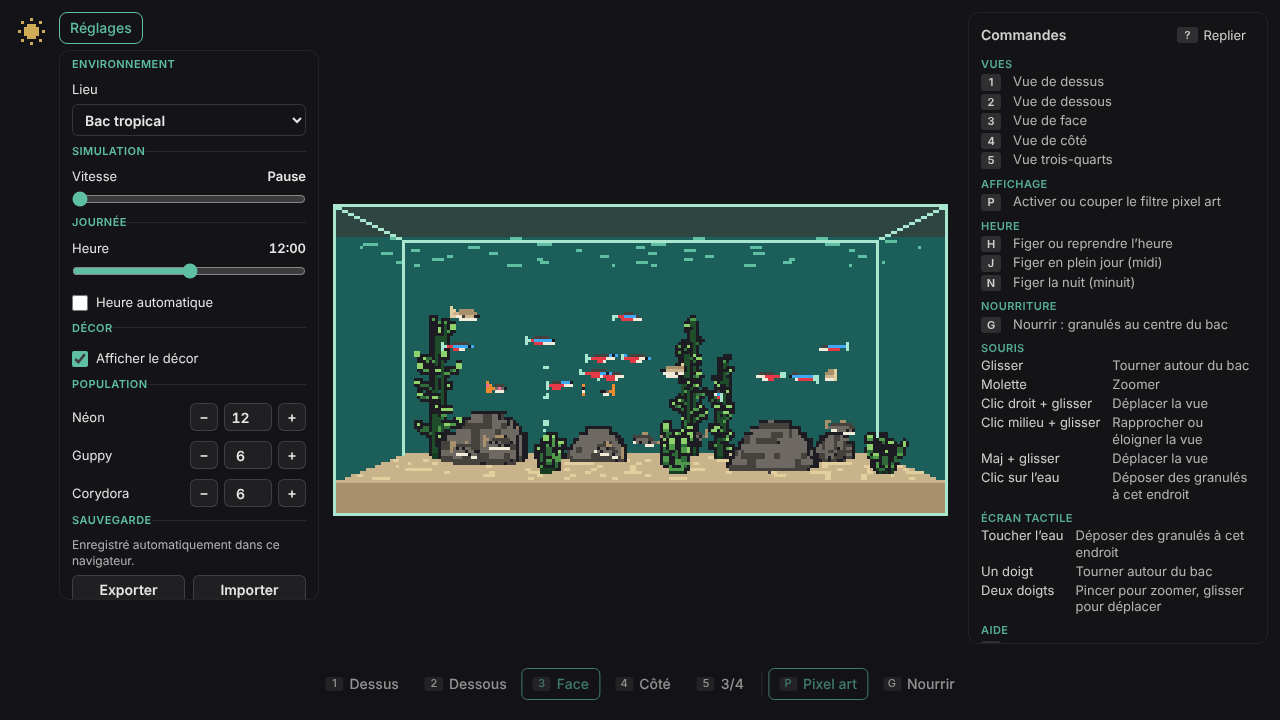
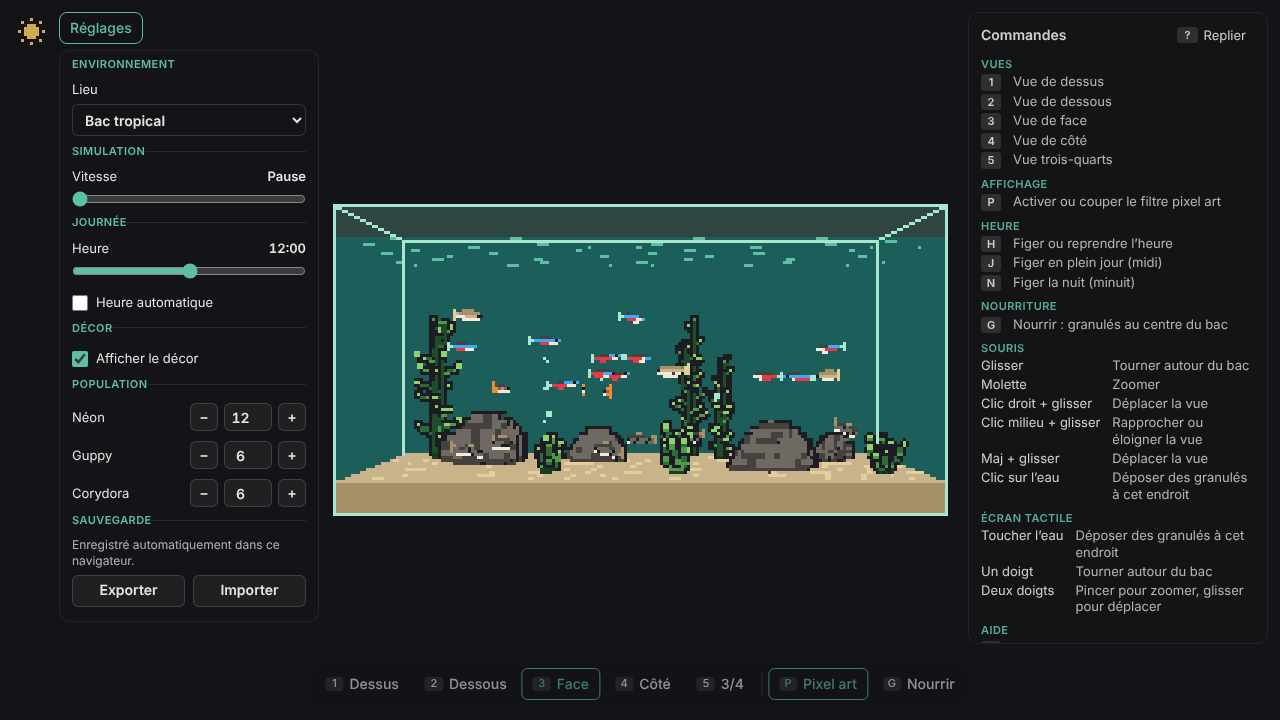
captures(c033): 5 angles

diff --git a/captures/latest/SOURCE.md b/captures/latest/SOURCE.md
@@ -1,5 +1,5 @@
-# Captures c032
-- Branche : cycle/c032-sauvegarde — PR #100 — commit 0cc10e9 (code applicatif ; 7b37a50 n'ajoute que des tests e2e)
+# Captures c033
+- Branche : cycle/c033-dette-sauvegarde — PR #102 — commit 293c9f0 (code applicatif ; 2fc8196 n'ajoute qu'un test e2e)
 - Graine : celle du script de captures (monde neuf, stockage non lu)
-- Généré par QA le 2026-10-20 (npm run captures, 19 passées en 46,7 s)
-- 18/19 identiques à latest (c031) ; seule front-panneau.png change (section Sauvegarde)
+- Généré par QA le 2026-10-20 (npm run captures, 19 passées en 32,3 s)
+- 18/19 identiques à latest (c032) ; seule front-panneau.png change (boutons de sauvegarde entiers)

diff --git a/captures/c033/SOURCE.md b/captures/c033/SOURCE.md
@@ -1,0 +1,5 @@
+# Captures c033
+- Branche : cycle/c033-dette-sauvegarde — PR #102 — commit 293c9f0 (code applicatif ; 2fc8196 n'ajoute qu'un test e2e)
+- Graine : celle du script de captures (monde neuf, stockage non lu)
+- Généré par QA le 2026-10-20 (npm run captures, 19 passées en 32,3 s)
+- 18/19 identiques à latest (c032) ; seule front-panneau.png change (boutons de sauvegarde entiers)
